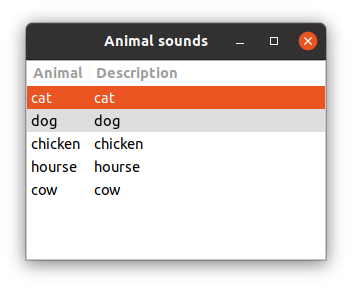
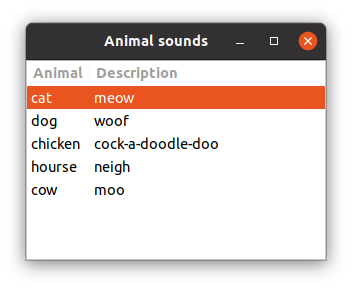
New examples/editable_table.rb / Support editable `table` control / Fix issue with table `text_column` repeating the first column as the second

Changed region(s): [[0.0625, 0.3114, 0.9375, 0.5294], [0.25, 0.5606, 0.4062, 0.6851]]

diff --git a/lib/glimmer/libui/table_proxy.rb b/lib/glimmer/libui/table_proxy.rb
@@ -68,13 +68,25 @@ module Glimmer
       alias cell_rows= cell_rows
       alias set_cell_rows cell_rows
       
+      def editable(value = nil)
+        if value.nil?
+          @editable
+        else
+          @editable = !!value
+        end
+      end
+      alias editable= editable
+      alias set_editable editable
+      alias editable? editable
+      
       private
       
       def build_control
         @model_handler = ::LibUI::FFI::TableModelHandler.malloc
         @model_handler.NumColumns   = rbcallback(4) { @columns.count }
         @model_handler.ColumnType   = rbcallback(4) do
-          # TODO support different values for different columns
+          # Note: this assumes all columns are the same type
+          # TODO support different values per different columns
           case @columns.first
           when TextColumnProxy
             0
@@ -89,6 +101,13 @@ module Glimmer
             ::LibUI.new_table_value_string((@cell_rows[row] && @cell_rows[row][column]).to_s)
           when ImageColumnProxy
             ::LibUI.new_table_value_image((@cell_rows[row] && @cell_rows[row][column]))
+          end
+        end
+        @model_handler.SetCellValue = rbcallback(0, [1, 1, 4, 4, 1]) do |_, _, row, column, val|
+          case @columns[column]
+          when TextColumnProxy
+            @cell_rows[row] ||= []
+            @cell_rows[row][column] = ::LibUI.table_value_string(val).to_s
           end
         end
         

diff --git a/lib/glimmer/libui/column.rb b/lib/glimmer/libui/column.rb
@@ -25,6 +25,9 @@ module Glimmer
   module LibUI
     # Common logic for all column proxy objects
     module Column
+      attr_reader :appended
+      alias appended? appended
+    
       def initialize(keyword, parent, args, &block)
         @keyword = keyword
         @parent_proxy = parent
@@ -36,6 +39,16 @@ module Glimmer
       
       def name
         @args.first
+      end
+      
+      private
+      
+      def build_control
+        @appended = true
+      end
+      
+      def next_column_index
+        @parent_proxy.columns.map(&:appended?).compact.count
       end
     end
   end

diff --git a/lib/glimmer/libui/text_column_proxy.rb b/lib/glimmer/libui/text_column_proxy.rb
@@ -29,11 +29,12 @@ module Glimmer
     # Follows the Proxy Design Pattern
     class TextColumnProxy < ControlProxy
       include Column
-    
+          
       private
       
       def build_control
-        @libui = @parent_proxy.append_text_column(name, @parent_proxy.columns.map(&:libui).compact.count, -1) # -1 for non-editable for now until editing is supported
+        @parent_proxy.append_text_column(name, next_column_index, @parent_proxy.editable? ? -2 : -1)
+        super
       end
     end
   end

diff --git a/examples/editable_table.rb b/examples/editable_table.rb
@@ -1,0 +1,29 @@
+# frozen_string_literal: true
+
+require 'glimmer-dsl-libui'
+
+include Glimmer
+
+data = [
+  %w[cat meow],
+  %w[dog woof],
+  %w[chicken cock-a-doodle-doo],
+  %w[hourse neigh],
+  %w[cow moo]
+]
+
+window('Editable animal sounds', 300, 200) {
+  horizontal_box {
+    table {
+      text_column('Animal')
+      text_column('Description')
+
+      cell_rows data
+      editable true
+    }
+  }
+  
+  on_closing do
+    puts 'Bye Bye'
+  end
+}.show

diff --git a/lib/glimmer/libui/image_column_proxy.rb b/lib/glimmer/libui/image_column_proxy.rb
@@ -33,7 +33,8 @@ module Glimmer
       private
       
       def build_control
-        @libui = @parent_proxy.append_image_column(name, @parent_proxy.columns.map(&:libui).compact.count)
+        @parent_proxy.append_image_column(name, next_column_index)
+        super
       end
     end
   end

diff --git a/README.md b/README.md
@@ -1,4 +1,4 @@
-# [<img src="https://raw.githubusercontent.com/AndyObtiva/glimmer/master/images/glimmer-logo-hi-res.png" height=85 />](https://github.com/AndyObtiva/glimmer) Glimmer DSL for LibUI 0.0.18
+# [<img src="https://raw.githubusercontent.com/AndyObtiva/glimmer/master/images/glimmer-logo-hi-res.png" height=85 />](https://github.com/AndyObtiva/glimmer) Glimmer DSL for LibUI 0.0.19
 ## Prerequisite-Free Ruby Desktop Development GUI Library
 [![Gem Version](https://badge.fury.io/rb/glimmer-dsl-libui.svg)](http://badge.fury.io/rb/glimmer-dsl-libui)
 [![Maintainability](https://api.codeclimate.com/v1/badges/ce2853efdbecf6ebdc73/maintainability)](https://codeclimate.com/github/AndyObtiva/glimmer-dsl-libui/maintainability)
@@ -43,7 +43,7 @@ Other [Glimmer](https://rubygems.org/gems/glimmer) DSL gems you might be interes
 
 ## Table of Contents
 
-- [Glimmer DSL for LibUI 0.0.18](#-glimmer-dsl-for-libui-0018)
+- [Glimmer DSL for LibUI 0.0.19](#-glimmer-dsl-for-libui-0019)
   - [Glimmer GUI DSL Concepts](#glimmer-gui-dsl-concepts)
   - [Usage](#usage)
   - [API](#api)
@@ -157,7 +157,7 @@ gem install glimmer-dsl-libui
 Or install via Bundler `Gemfile`:
 
 ```ruby
-gem 'glimmer-dsl-libui', '~> 0.0.18'
+gem 'glimmer-dsl-libui', '~> 0.0.19'
 ```
 
 Add `require 'glimmer-dsl-libui'` at the top, and then `include Glimmer` into the top-level main object for testing or into an actual class for serious usage.
@@ -245,7 +245,7 @@ Control(Args) | Properties | Listeners
 `spinbox(min as Numeric, max as Numeric)` | `value` (`Numeric`) | `on_changed`
 `tab` | `margined` (Boolean), `num_pages` (`Integer`) | None
 `tab_item(name as String)` | `index` [read-only] (`Integer`), `margined` (Boolean), `name` [read-only] (`String`) | None
-`table` | `cell_rows` (`Array` (rows) of `Arrays` (row columns) of cell values (e.g. `String` values)) | None
+`table` | `cell_rows` (`Array` (rows) of `Arrays` (row columns) of cell values (e.g. `String` values)), `editable` as Boolean | None
 `text_column(name as String)` | None | None
 `time_picker` | `time` (`Hash` of keys: `sec` as `Integer`, `min` as `Integer`, `hour` as `Integer`, `mday` as `Integer`, `mon` as `Integer`, `year` as `Integer`, `wday` as `Integer`, `yday` as `Integer`, `dst` as Boolean) | `on_changed`
 `vertical_box` | `padded` (Boolean) | None
@@ -1879,6 +1879,67 @@ window('Animal sounds', 300, 200) {
   end
 }.show
 ```
+
+### Editable Table
+
+[examples/editable_table.rb](examples/editable_table.rb)
+
+Run with this command from the root of the project if you cloned the project:
+
+```
+ruby -r './lib/glimmer-dsl-libui' examples/editable_table.rb
+```
+
+Run with this command if you installed the [Ruby gem](https://rubygems.org/gems/glimmer-dsl-libui):
+
+```
+ruby -r glimmer-dsl-libui -e "require 'examples/editable_table'"
+```
+
+Mac
+
+![glimmer-dsl-libui-mac-editable-table.png](images/glimmer-dsl-libui-mac-editable-table.png)
+![glimmer-dsl-libui-mac-editable-table-editing.png](images/glimmer-dsl-libui-mac-editable-table-editing.png)
+![glimmer-dsl-libui-mac-editable-table-edited.png](images/glimmer-dsl-libui-mac-editable-table-edited.png)
+
+Linux
+
+![glimmer-dsl-libui-linux-editable-table.png](images/glimmer-dsl-libui-linux-editable-table.png)
+![glimmer-dsl-libui-linux-editable-table-editing.png](images/glimmer-dsl-libui-linux-editable-table-editing.png)
+![glimmer-dsl-libui-linux-editable-table-edited.png](images/glimmer-dsl-libui-linux-editable-table-edited.png)
+
+New [Glimmer DSL for LibUI](https://rubygems.org/gems/glimmer-dsl-libui) Version:
+
+```ruby
+require 'glimmer-dsl-libui'
+
+include Glimmer
+
+data = [
+  %w[cat meow],
+  %w[dog woof],
+  %w[chicken cock-a-doodle-doo],
+  %w[hourse neigh],
+  %w[cow moo]
+]
+
+window('Editable animal sounds', 300, 200) {
+  horizontal_box {
+    table {
+      text_column('Animal')
+      text_column('Description')
+
+      cell_rows data
+      editable true
+    }
+  }
+  
+  on_closing do
+    puts 'Bye Bye'
+  end
+}.show
+```
+
 
 ### Basic Table Image
 

diff --git a/TODO.md b/TODO.md
@@ -2,11 +2,13 @@
 
 ## Next
 
-- Support table `image_text_column`
-- New examples/basic_table_image_text.rb
+- Support editable `text_column`
+- New examples/editable_column_table.rb
 
 ## Soon
 
+- Support table `image_text_column`
+- New examples/basic_table_image_text.rb
 - Support table `button_column`
 - Support automatic table cell value reading management (row deletion in `cell_rows`)
 - New examples/deletable_row_table.rb
@@ -17,7 +19,6 @@
 - Support table `checkbox_column`
 - Support table `checkbox_text_column`
 - Support table `progress_bar_column`
-- Support editable `table` control
 
 ## Future
 
@@ -35,3 +36,4 @@
 - Support re-opening a control by using `#content`
 - Support custom controls
 - Support custom windows
+- Add a 3rd tab to examples/grid.rb showcasing the halign and valign properties and provide symbol alternatives for their values like `:fill` and `:center`

diff --git a/CHANGELOG.md b/CHANGELOG.md
@@ -1,5 +1,11 @@
 # Change Log
 
+## 0.0.19
+
+- New examples/editable_table.rb
+- Support editable `table` control
+- Fix issue with table `text_column` repeating the first column as the second
+
 ## 0.0.18
 
 - Support examples/basic_table_image.rb
